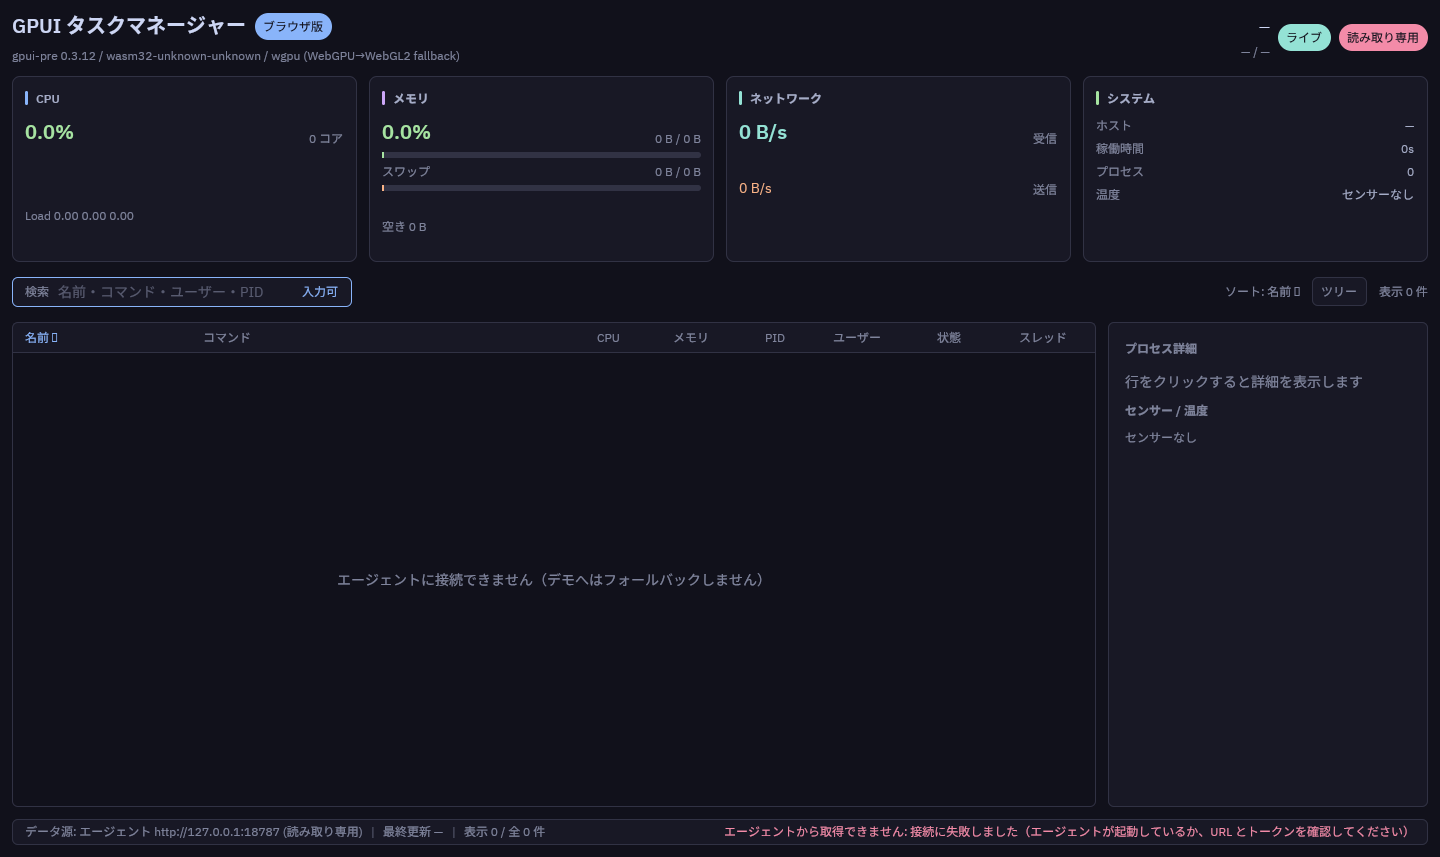
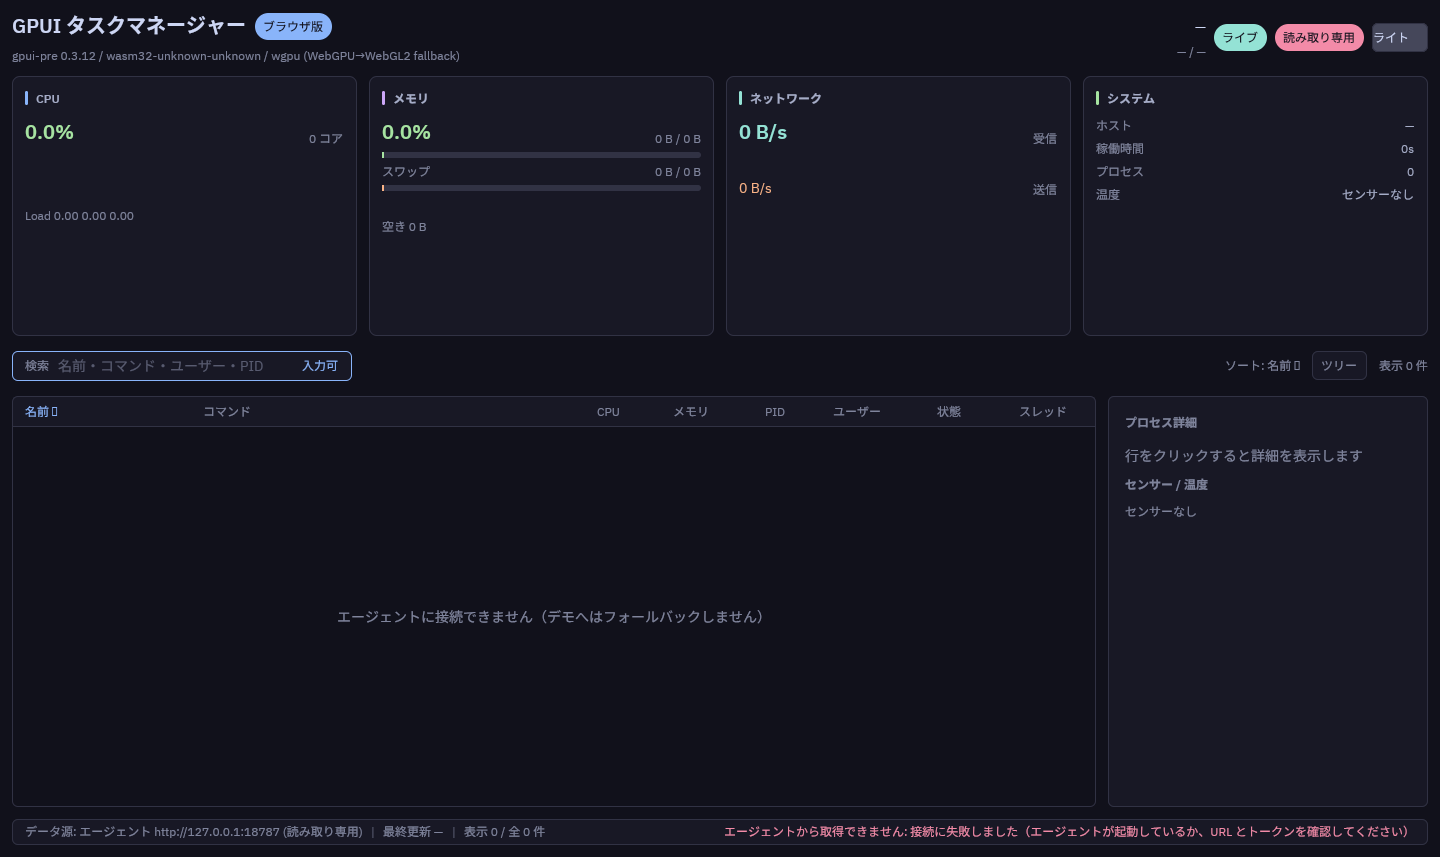
verify(web): ライブモード End-to-End を再検証
agent 変更後の tm-agent 接続を CDP で再検証。ライブ mode=live/rows=500/Authorization 付き/トークン URL 非含有、エラー時 live_error=1/rows=0 を確認。検証プロセスの停止とポート解放済み。

diff --git a/notes/verification.md b/notes/verification.md
@@ -1125,3 +1125,17 @@ FAIL: 保存スキーマが想定どおり（実際: ['details_visible','interva
 - args_os / サイズ上限ほかの変更を反映したビルドで CDP 設定・デモ・IME（32/32）を再検証し、
   すべて成功。wasm 7,642,794 B（gzip 3,044,134 B）へ微増し現状値を更新。
   検証用プロセスを停止し、全ポート（8091/9223/8097/9229）の解放を確認。
+
+## 2026-11-17（ライブモード End-to-End 再検証）
+
+- 直近の agent 変更（トークン trim 統一・Host 空ポート拒否・並列化）後に、
+  tm-agent（127.0.0.1:18787、`--redact`、`TM_AGENT_TOKEN=test`）＋
+  web/dist（8091）＋ ヘッドレス Chrome（CDP 9223）でライブ接続を再検証:
+  - ライブモード: `{"failures": [], "passed": true}`
+    （mode=live / rows=500 / 14 GET すべて Authorization 付き /
+     CORS プリフライト 1 回 / トークン URL 非含有）。
+  - エラー時モード（`--expect-agent-error`、`--label live-error`）: `passed: true`
+    （mode=live のまま / live_error=1 / rows=0、デモへフォールバックしない）。
+- 最初にエラー時モードをフラグ無しで実行し 4 件 FAIL が出たが、
+  スクリプトの期待モード指定漏れが原因と確認し正しいフラグで再実行して解消。
+- 検証用プロセスを停止し、全ポート（8091 / 9223 / 18787）の解放を確認。

diff --git a/log.md b/log.md
@@ -776,3 +776,11 @@
 - CDP スクリプトのテーマボタン座標定数が shell.rs と同期していること、
   web/src/lib.rs の属性順序（allow(dead_code) → forbid(unsafe_code)）が
   wasm ビルドで問題ないことを確認。新たな不具合は検出せず。
+
+## 2026-11-17（ライブモード End-to-End 再検証）
+
+- agent 変更後のライブ接続・エラー時モードを CDP で再検証し両方 success。
+  ライブは rows=500 / Authorization 付き / トークン URL 非含有、
+  エラー時は live_error=1 / rows=0 を確認。
+  最初のエラー時検証はフラグ指定漏れによる FAIL で、正しいフラグで解消。
+  全検証用プロセスの停止とポート解放を確認。
